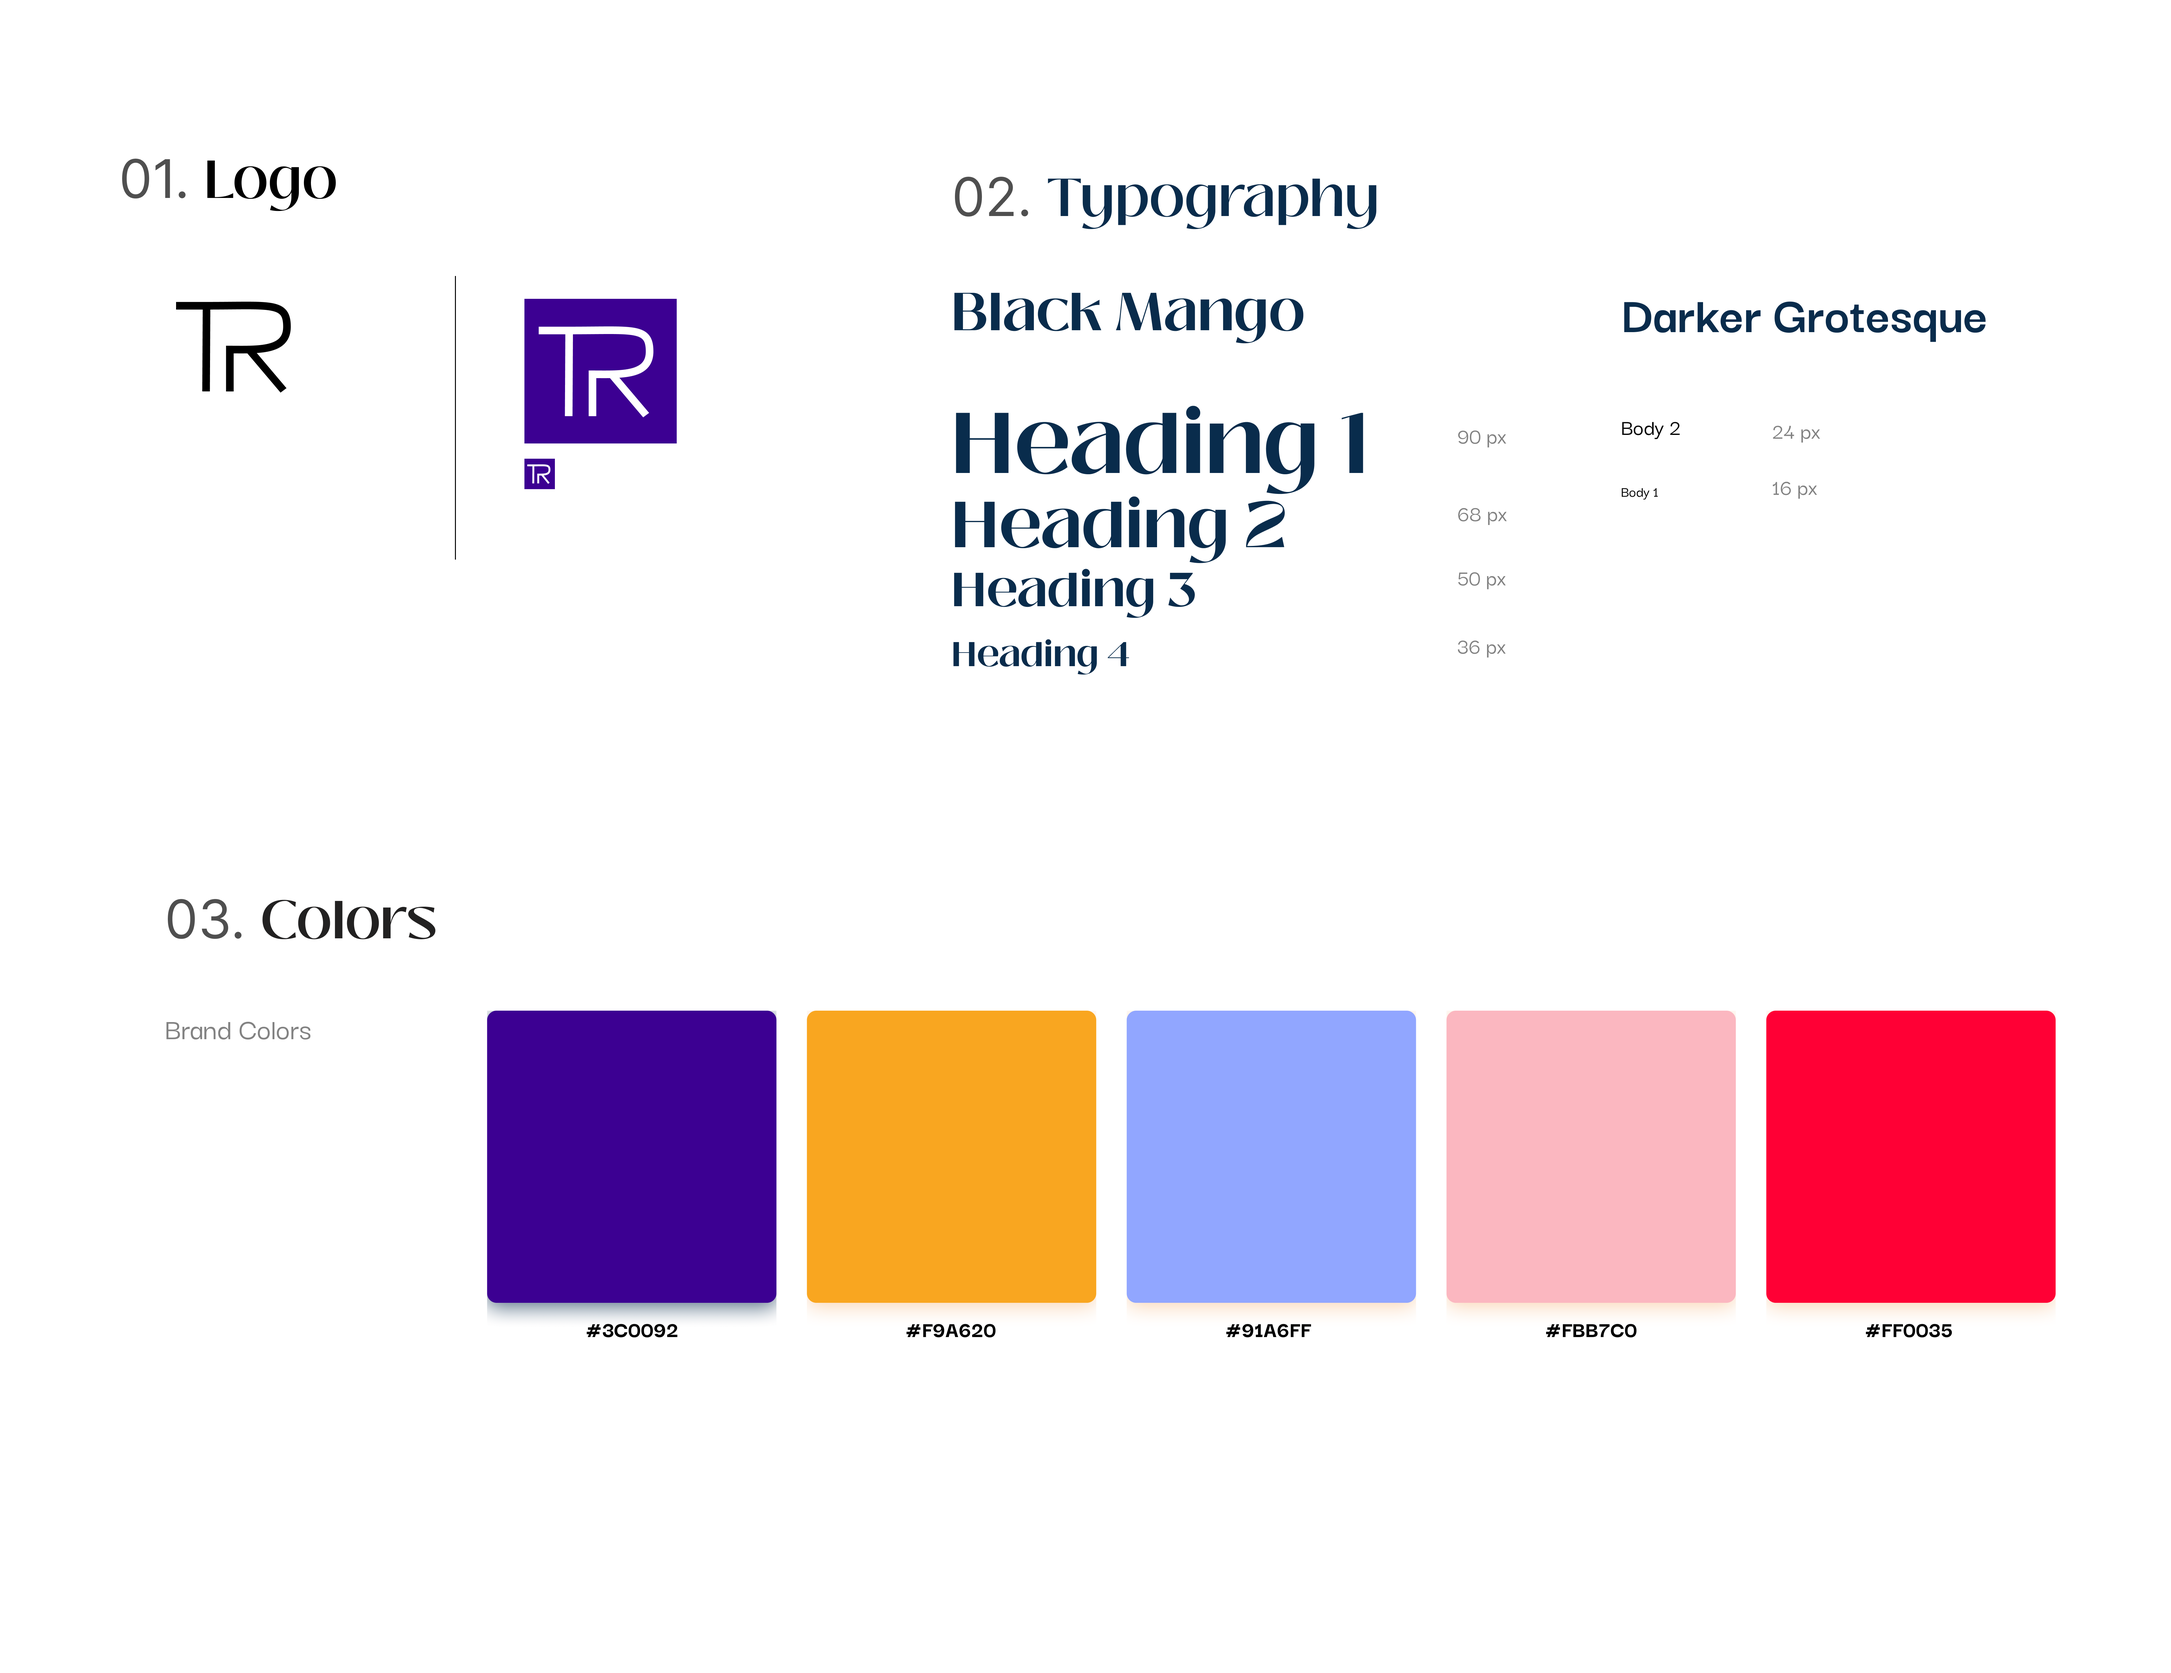
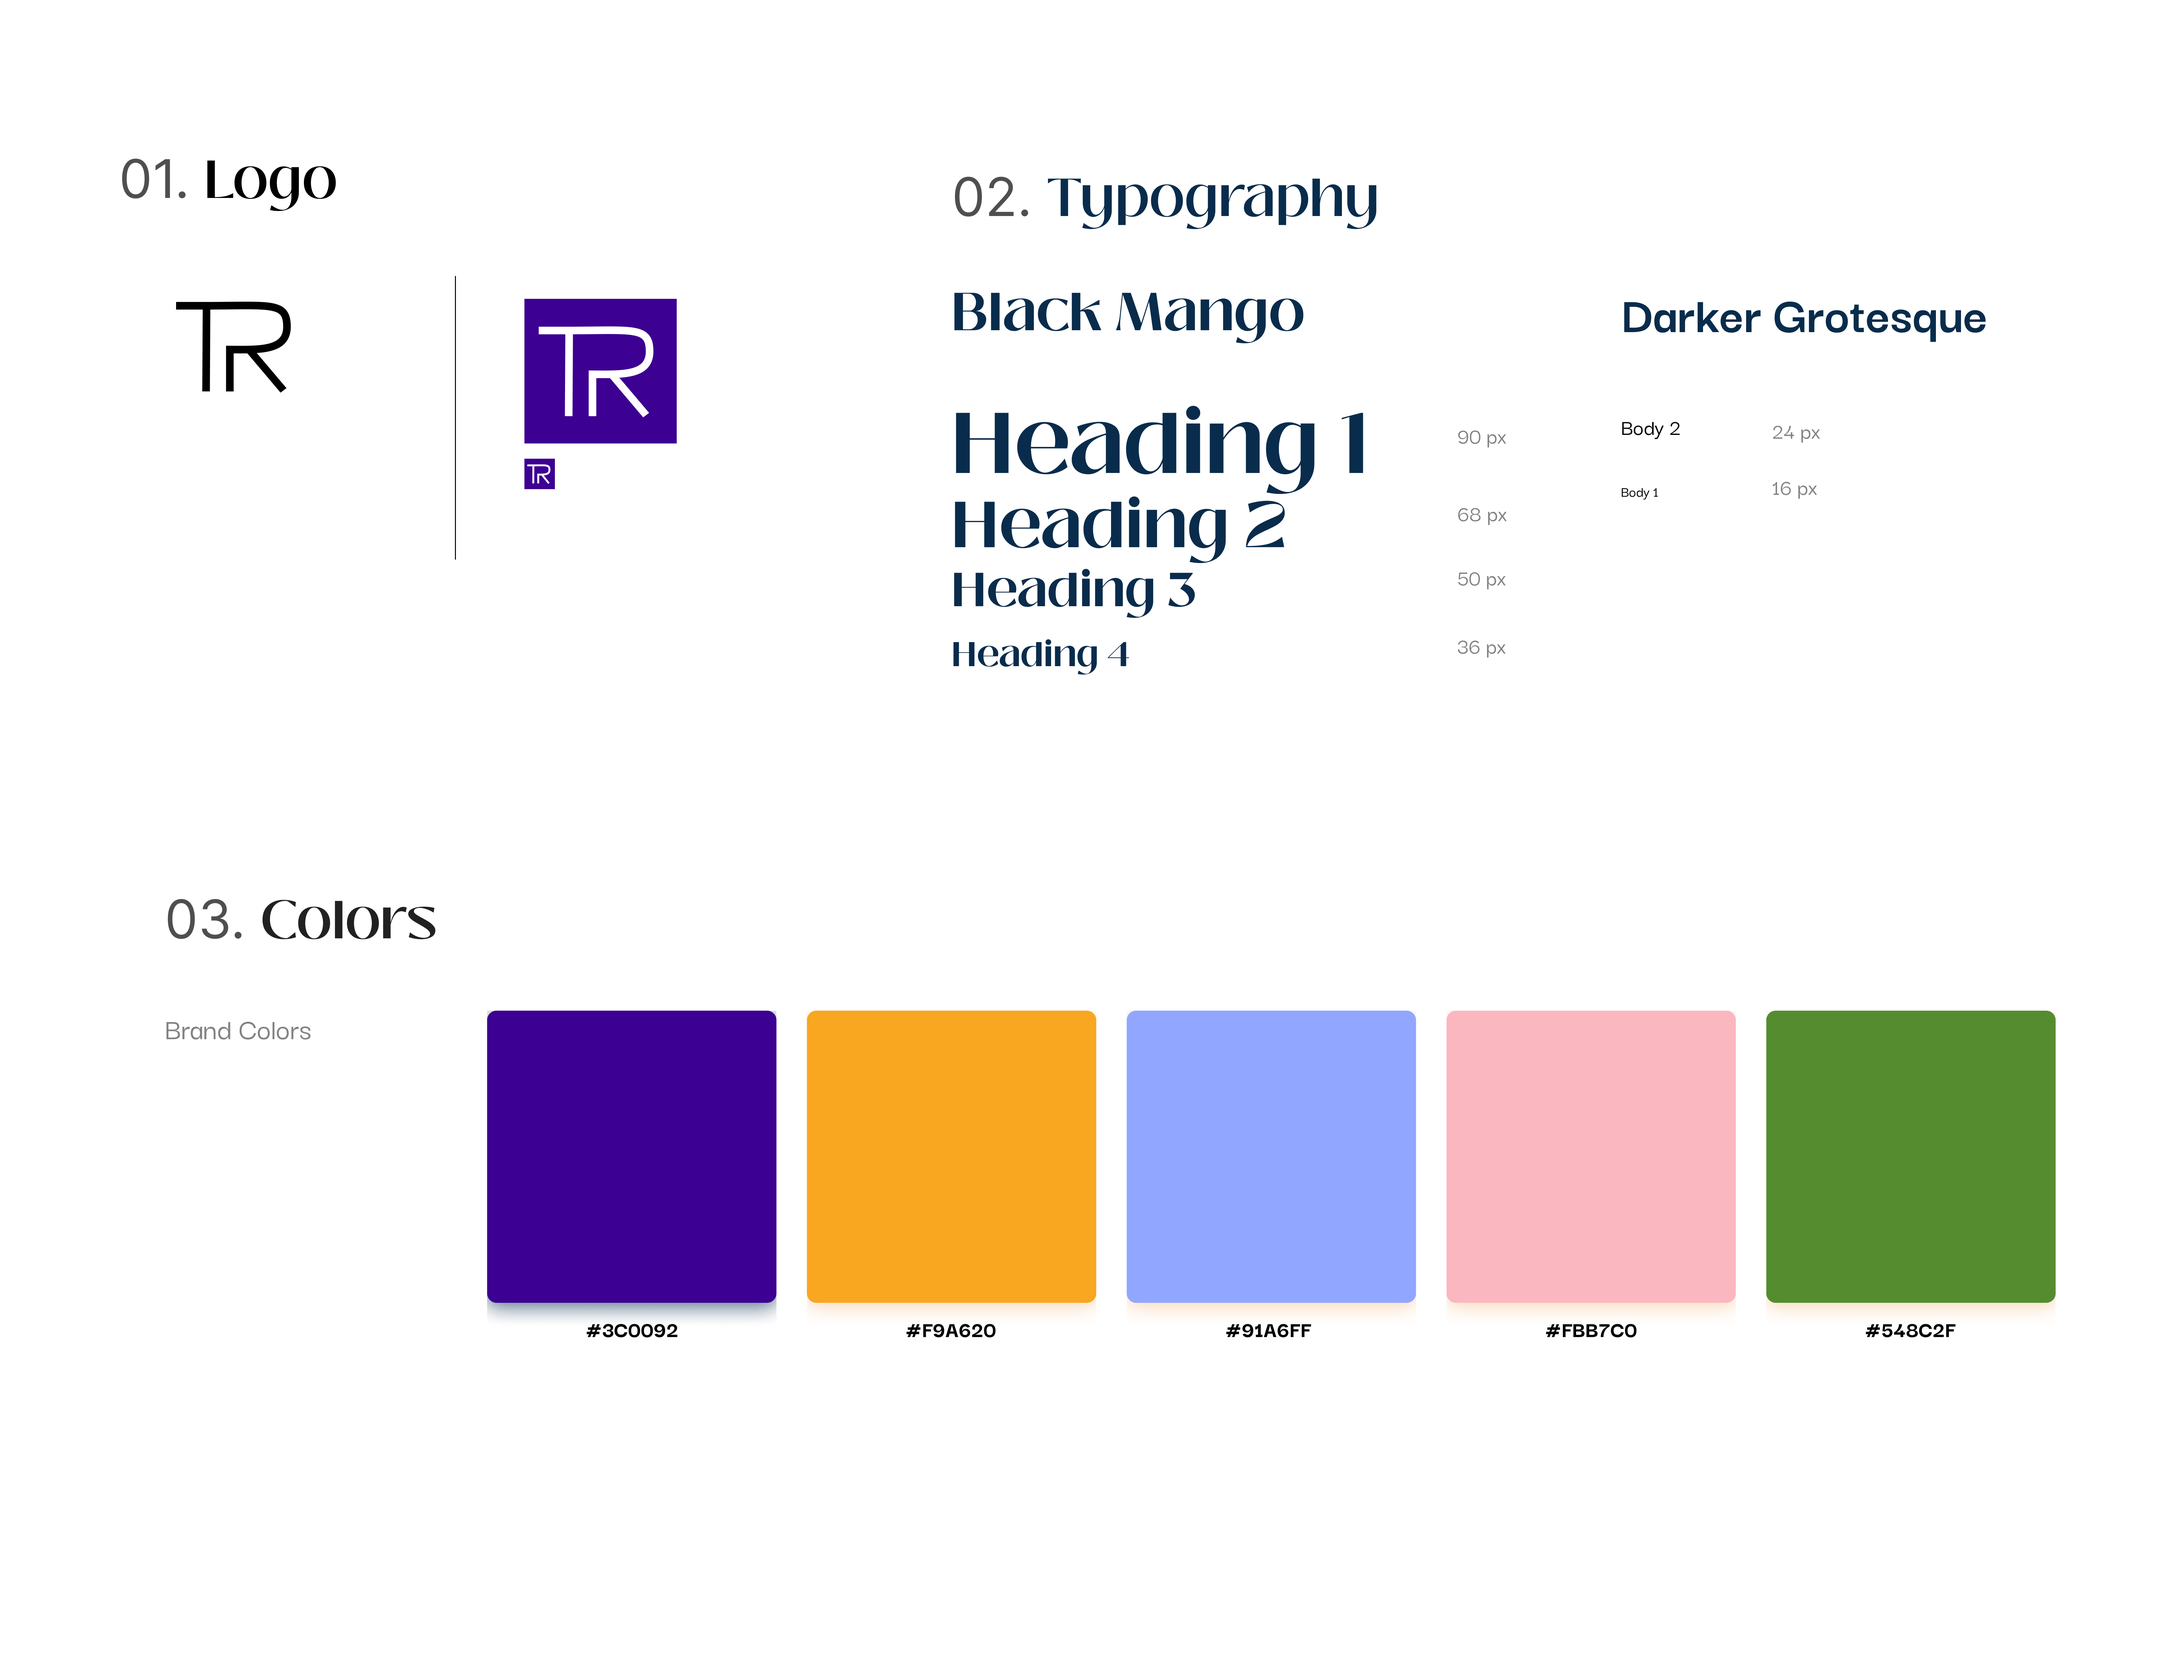
updated images for portfolio

Changed region(s): [[0.8093, 0.5908, 0.9649, 0.8085]]

diff --git a/src/pages/portfolio.js b/src/pages/portfolio.js
@@ -150,7 +150,7 @@ export default function Portfolio() {
                     <li>#F9A620 (orange) for optimism and energy</li>
                     <li>#91A6FF (light blue) for clarity and calmness</li>
                     <li>#FBB7C0 (pink) for warmth</li>
-                    <li>#FF0035 (red) for passion and boldness</li>
+                    <li>#548C2F (red) for growth and harmony</li>
                   </ul>
                 </li>
                 <li>
